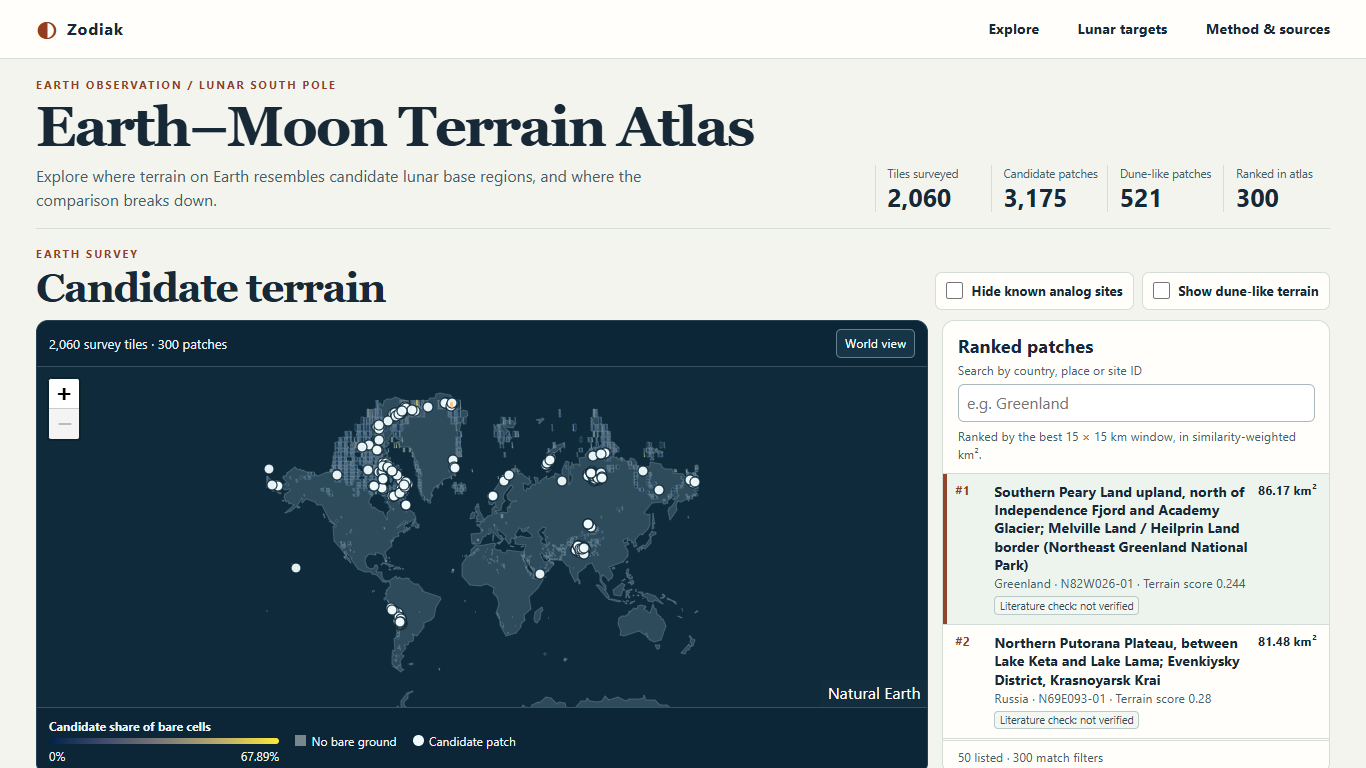
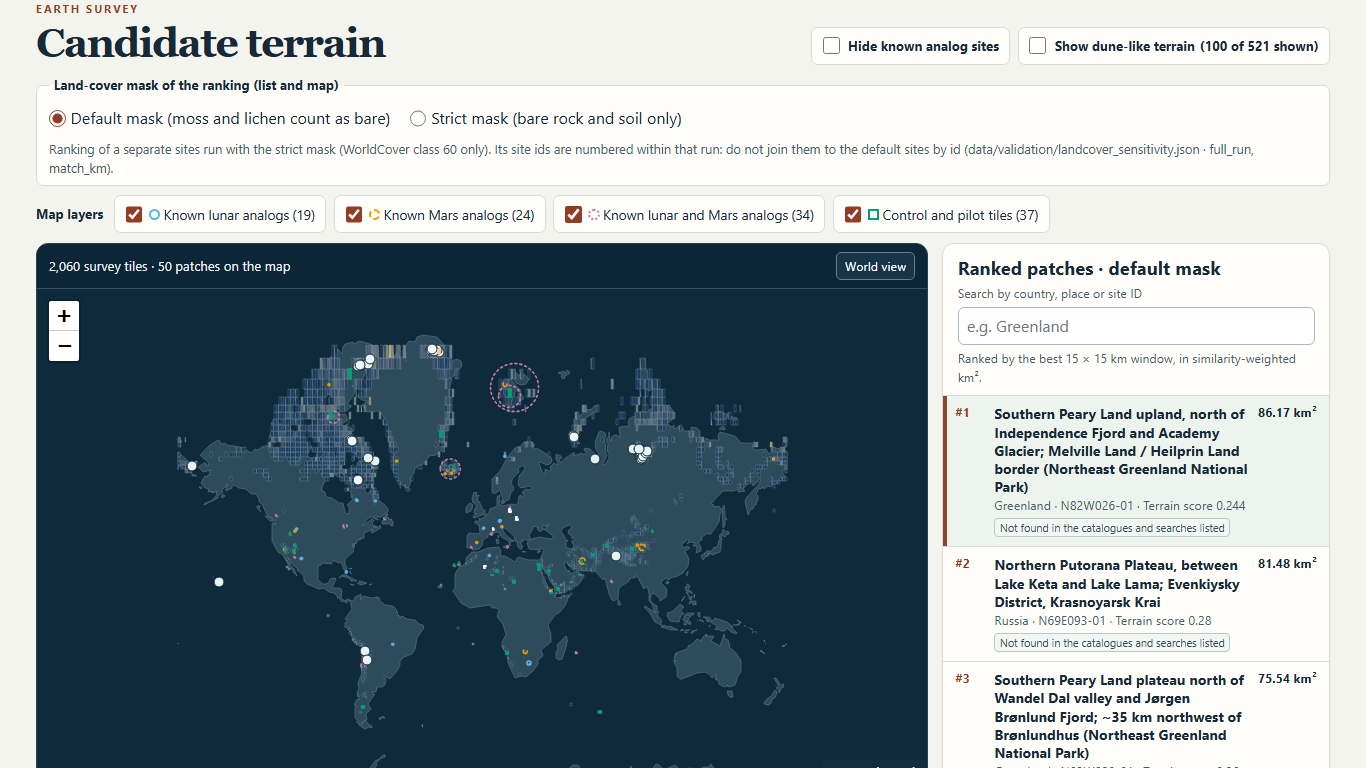
app: layers in the link, page-keys test, screenshots, j36 sources, FRONTEND-SPEC marks (#22)

diff --git a/app/app.js b/app/app.js
@@ -200,11 +200,13 @@ function init(L, data) {
   status.hidden = true;
   const {map, markers, selected} = createMap(L, land, tiles, meta.candidate_share_max);
 
-  // Map layers with toggles (F-15, F-16).
+  // Map layers with toggles (F-15, F-16); `layers=moon,mars,both,controls` in the link turns them on.
+  const requestedLayers = new Set((params.get('layers') || '').split(','));
   const known = knownLayers(L, data.known);
   for (const [tag, layer] of Object.entries(known)) {
     const box = byId(`layer-${tag}`);
     box.disabled = !data.known;
+    box.checked = Boolean(data.known) && requestedLayers.has(tag);
     const sync = () => box.checked ? layer.addTo(map) : layer.remove();
     box.addEventListener('change', sync);
     sync();
@@ -214,7 +216,10 @@ function init(L, data) {
   const controls = controlLayer(L, data.controls);
   const controlBox = byId('layer-controls');
   controlBox.disabled = !data.controls;
-  controlBox.addEventListener('change', () => controlBox.checked ? controls.addTo(map) : controls.remove());
+  const syncControls = () => controlBox.checked ? controls.addTo(map) : controls.remove();
+  controlBox.checked = Boolean(data.controls) && requestedLayers.has('controls');
+  controlBox.addEventListener('change', syncControls);
+  syncControls();
   if (data.controls) byId('count-controls').textContent = ` (${number(data.controls.n, 0)})`;
   if (data.known?.scope_note) byId('known-scope').textContent = data.known.scope_note;
 

diff --git a/tests/test_app_page_keys.py b/tests/test_app_page_keys.py
@@ -1,0 +1,40 @@
+"""The page files read only data files and site keys that exist in the committed export (J36, issue #22).
+
+Written with SI assistance (Claude Code)."""
+
+import json
+from pathlib import Path
+import re
+
+
+ROOT = Path(__file__).resolve().parents[1]
+APP = ROOT / "app"
+PAGE = [APP / name for name in ("app.js", "views.js", "card.js", "strict.js", "sections.js")]
+# Data files the page may read before they exist: app.js reads strict_ranking.json only when meta.json lists it.
+OPTIONAL = {"data/strict_ranking.json"}
+# Keys that only the strict-mask records of app/strict.js carry (built in the browser, not exported).
+STRICT_ONLY = {"ranking_label", "strict"}
+
+
+def page_text():
+    return "\n".join(path.read_text(encoding="utf-8") for path in PAGE if path.exists())
+
+
+def test_every_data_file_the_page_reads_exists():
+    paths = set(re.findall(r"'(data/[A-Za-z0-9_/]+\.json)'", page_text()))
+    paths |= {f"data/{name}.json" for name in re.findall(r"\['([a-z_', ]+)'\]\.map\(\(file\) => json\(`data/", page_text())
+              for name in name.split("', '")}
+    assert "data/sites.json" in paths and "data/novelty.json" in paths
+    missing = sorted(p for p in paths - OPTIONAL if not (APP / p).exists())
+    assert not missing, missing
+
+
+def test_every_site_key_the_card_reads_exists_in_the_export():
+    records = json.loads((APP / "data/sites.json").read_text(encoding="utf-8"))
+    records += json.loads((APP / "data/sites_flagged.json").read_text(encoding="utf-8"))
+    exported = set().union(*(record.keys() for record in records))
+    text = "\n".join((APP / name).read_text(encoding="utf-8") for name in ("views.js", "card.js"))
+    used = set(re.findall(r"\bsite\??\.([a-z_][a-z0-9_]*)", text))
+    missing = sorted(used - exported - STRICT_ONLY - {"site_id"} | ({"site_id"} - exported))
+    assert used, "no site keys found in the page files"
+    assert not missing, missing

diff --git a/docs/FRONTEND-SPEC.md b/docs/FRONTEND-SPEC.md
@@ -363,7 +363,7 @@ Each line: requirement (testable), data it needs, status, KEY if `app/build_data
 ### Shell and global
 
 - **F-01** Every JSON load that fails shows the file name and the error on the page; the page never stays blank. Data: all `app/data/*.json`. EXISTS (`app.js · json()`, `load-status`).
-- **F-02** A null value renders "Not measured"; a site outside a product's sample renders "Not sampled"; no null renders as 0 or empty. Data: `sites.json · power`, `partner`, `image`, every numeric key. PARTIAL (`views.js · number()` returns "Not measured"; "Not sampled" only in the partner block; POWER for ranks 151 to 300 shows "Not measured" instead of "Not sampled").
+- **F-02** A null value renders "Not measured"; a site outside a product's sample renders "Not sampled"; no null renders as 0 or empty. Data: `sites.json · power`, `partner`, `image`, every numeric key. PARTIAL (`views.js · number()` returns "Not measured"; "Not sampled" only in the partner block; POWER for ranks 151 to 300 shows "Not measured" instead of "Not sampled"). **J36 (#22): EXISTS (POWER without a row says "Not sampled", `views.js · analogyBreaks`).**
 - **F-03** The footer names the data agencies and the SI tools. Data: `data/sources.csv` (`status = used`). PARTIAL (static text; it says "Codex" only).
 - **F-04** Header counters show tiles, candidate patches, dune-like patches and ranked patches. Data: `meta.json · counts.tiles`, `sites_total`, `sites_flagged_total`, `sites`. EXISTS.
 - **F-05** Deep link `#view=<id>&site=<id>&target=<id>` opens the screen, the card and the target; an unknown id falls back to rank 1 and `base_regions`. Data: `sites.json`, `sites_flagged.json`, `moon.json · regions`. PARTIAL (`site` and `target` exist; `view` is NEW).
@@ -381,11 +381,11 @@ Each line: requirement (testable), data it needs, status, KEY if `app/build_data
 - **F-11** One rectangle per scanned tile (2,060), filled by `candidate_share` on cividis from 0 to `meta.candidate_share_max`; 75 null tiles grey with "no bare ground". Data: `tiles.json`. EXISTS.
 - **F-12** A tile click opens a tile panel with all 15 columns of `tile_summary.csv` and the plan columns of `tiles_scanned.csv`. Data: `tile_summary.csv`, `tiles_scanned.csv`. NEW, KEY `tiles.json` adds `n_valid`, `n_terrain_pass`, `n_candidate_flagged`, `median_p_bare`, `weighted_area_km2`, `best_window_km2_max`, `lat_c`, `lon_c`, `dem`, `region`, `prio`, `reason`, `status`.
 - **F-13** A marker per listed site; on selection its outline is drawn with every ring as an outer boundary. Data: `sites.json · lat`, `lon`, `polygon`. EXISTS.
-- **F-14** Toggle "Show dune-like relief (terrain rule)" adds the flagged records and says "100 of 521 shown". Data: `sites_flagged.json`, `meta.counts.sites_flagged`, `sites_flagged_total`. PARTIAL (toggle exists; the "100 of 521" text is NEW).
-- **F-15** Known analog layer: 77 circles of `radius_km`, styled and labelled by `analog_for`, toggles per `analog_for`. Data: `data/reference/known_analogs.csv`. NEW, KEY `known_analogs.json`.
-- **F-16** Control and pilot tiles layer with the with-mask and without-mask results. Data: `pilot_tiles.csv`, `effectiveness.json · controls`. NEW, KEY `controls.json` (or `validation.json · controls`).
+- **F-14** Toggle "Show dune-like relief (terrain rule)" adds the flagged records and says "100 of 521 shown". Data: `sites_flagged.json`, `meta.counts.sites_flagged`, `sites_flagged_total`. PARTIAL (toggle exists; the "100 of 521" text is NEW). **J36 (#22): EXISTS (toggle label "(100 of 521 shown)" from `meta.counts`).**
+- **F-15** Known analog layer: 77 circles of `radius_km`, styled and labelled by `analog_for`, toggles per `analog_for`. Data: `data/reference/known_analogs.csv`. NEW, KEY `known_analogs.json`. **J36 (#22): EXISTS (`app.js · knownLayers`, one toggle per tag, Okabe-Ito colour plus dash pattern).**
+- **F-16** Control and pilot tiles layer with the with-mask and without-mask results. Data: `pilot_tiles.csv`, `effectiveness.json · controls`. NEW, KEY `controls.json` (or `validation.json · controls`). **J36 (#22): EXISTS (`app.js · controlLayer`, tooltip with result and `result_key`).**
 - **F-17** Scan coverage layer: 2,101 planned tiles coloured by `region` or `prio`; the 41 planned tiles without a summary row hatched "scanned, no summary row". Data: `tiles_scanned.csv`, `tile_summary.csv`. NEW, KEY `scan_plan.json`.
-- **F-18** Legend with units, scale ends and every active layer. Data: `meta.candidate_share_max`. PARTIAL (tiles and patches only).
+- **F-18** Legend with units, scale ends and every active layer. Data: `meta.candidate_share_max`. PARTIAL (tiles and patches only). **J36 (#22): PARTIAL (layer toggles carry the swatches; the map legend itself lists tiles and patches only).**
 - **F-19** Selecting a site on the map selects it in the list and opens the card, and the reverse. Data: `sites.json`. EXISTS.
 
 ### S03 Ranked list
@@ -402,42 +402,42 @@ Each line: requirement (testable), data it needs, status, KEY if `app/build_data
 
 - **F-27** Head with rank, id, country, place, coordinates and badges. Data: `sites.json · rank`, `site_id`, `country`, `place`, `lat`, `lon`. EXISTS.
 - **F-28** Badges follow W-02, W-04, W-09; `mentioned` reads "region named in an opened source (Mars analog, regional); site not named". Data: `sites.json · is_known`, `dune_like`, `novelty`. EXISTS (since `8edaad7`, `mentioned` reads "Region named as a Mars analog in general terms").
-- **F-29** "Known analog site" badge names the matched known site and its `analog_for` (today a page caption explains that every tag counts, `app/index.html`). Data: `known_analogs.csv` (`name`, `lat`, `lon`, `radius_km`, `analog_for`), site `lat`, `lon`. NEW, KEY `known_match` = {name, analog_for, radius_km, distance_km} computed with the same rule as `pipeline/sites.py` (centroid inside `radius_km`; rows of type `operational` excluded, per its docstring).
+- **F-29** "Known analog site" badge names the matched known site and its `analog_for` (today a page caption explains that every tag counts, `app/index.html`). Data: `known_analogs.csv` (`name`, `lat`, `lon`, `radius_km`, `analog_for`), site `lat`, `lon`. NEW, KEY `known_match` = {name, analog_for, radius_km, distance_km} computed with the same rule as `pipeline/sites.py` (centroid inside `radius_km`; rows of type `operational` excluded, per its docstring). **J36 (#22): EXISTS (`known_match` named in the Earth patch block).**
 - **F-30** Satellite image with credit "NASA Worldview / GIBS", date and layer; "No image stored" otherwise; a scale bar from the image extent. Data: `sites.json · image`, `image_date`, `image_layer`; `images/index.csv · bbox`. PARTIAL (scale bar NEW, KEY `image_bbox`).
-- **F-31** Patch facts: area, cells, elevation, ranking key, weighted area (plain and capped), best window centre, tile. Data: `sites.geojson · area_km2`, `n_cells`, `elev_med`, `best_window_km2`, `weighted_area_km2`, `weighted_area_capped_km2`, `window_lat`, `window_lon`, `tile`. PARTIAL, KEY `weighted_area_km2`, `weighted_area_capped_km2`, `window`.
+- **F-31** Patch facts: area, cells, elevation, ranking key, weighted area (plain and capped), best window centre, tile. Data: `sites.geojson · area_km2`, `n_cells`, `elev_med`, `best_window_km2`, `weighted_area_km2`, `weighted_area_capped_km2`, `window_lat`, `window_lon`, `tile`. PARTIAL, KEY `weighted_area_km2`, `weighted_area_capped_km2`, `window`. **J36 (#22): EXISTS (`card.js · scoreBlock`).**
 - **F-32** Five terrain bars: site value against the lunar median and p10–p90 of the selected target, label and unit from `feature_info`, "Earth outside range" in text. Data: `sites.json · features`, `moon.json · regions[target].features`, `feature_info`. EXISTS.
 - **F-33** Landing and mobility shares, site against lunar median and p10–p90. Data: `sites.json · shares`; `reference.json · regions.*.p10`, `p90` (`f_le5`, `f_le8`, `f_le15`). PARTIAL (lunar median only), KEY `moon.json · regions.*.shares.{median,p10,p90}`.
-- **F-34** Score and its two parts. Data: `sites.geojson · score`, `score_amp`, `score_dep`. PARTIAL (`score` only), KEY `score_amp`, `score_dep`.
+- **F-34** Score and its two parts. Data: `sites.geojson · score`, `score_amp`, `score_dep`. PARTIAL (`score` only), KEY `score_amp`, `score_dep`. **J36 (#22): EXISTS (`card.js · scoreBlock`).**
 - **F-35** Score against each of the 9 targets with the best match marked in text. Data: `sites.json · region_scores`, `best_region`, `moon.json · regions.*.display_name`. EXISTS.
 - **F-36** Changing the target redraws S04.5, S04.6, S04.8 and S04.11 and keeps the ranking order. Data: `moon.json · regions`. EXISTS.
-- **F-37** "Where the analogy breaks" lists every `breaks` sentence and, where present, access and protection; never collapsed. Data: `sites.json · breaks`; `novelty_check.csv · access`, `protection`. PARTIAL, KEY `novelty_record`.
-- **F-38** Surface conditions: POWER (annual mean, monthly range, annual mean in K, precipitation, wind, grid note), JAXA SGLI and NASA MODIS (day mean, night mean, warmest day, coldest night, day minus night, month counts), soil moisture with sample count, permafrost and ground temperature, each with its source link; lunar `temp_avg_k`, `temp_max_k` beside them. Data: `nasa_context.csv`, `partner_context.csv`, `moon.json · headline`, `headline_range`. PARTIAL (no `ts_mean_k`, `precip_mm_per_year`, `ws10m_m_s`, `power_grid_note`, `*_day_max_k`), KEY `power.ts_mean_k`, `power.precip_mm_per_year`, `power.ws10m_m_s`, `power.grid_note`, `partner.<source>.day_max_k`, `partner.group`.
-- **F-39** Literature record for the 44 checked sites with links. Data: `novelty_check.csv` (12 columns). NEW, KEY `novelty_record`.
-- **F-40** "Download site package": one JSON with id, coordinates, polygon, rank, feature values, the lunar region compared, `breaks`, the novelty verdict with its sources, links to the elevation tiles and the image, each with source and licence. Data: `sites.json` record, `moon.json · regions[target]`, `novelty_check.csv`, `sources.json`. NEW (issue #22), KEY `novelty_record`, `sources.json · licence_or_citation` (exists).
-- **F-41** Image review block for ranks 1 to 30 with the SI label. Data: `sites.json · review`. EXISTS.
+- **F-37** "Where the analogy breaks" lists every `breaks` sentence and, where present, access and protection; never collapsed. Data: `sites.json · breaks`; `novelty_check.csv · access`, `protection`. PARTIAL, KEY `novelty_record`. **J36 (#22): EXISTS (access and protection appended to the list; "Not recorded" without a literature row).**
+- **F-38** Surface conditions: POWER (annual mean, monthly range, annual mean in K, precipitation, wind, grid note), JAXA SGLI and NASA MODIS (day mean, night mean, warmest day, coldest night, day minus night, month counts), soil moisture with sample count, permafrost and ground temperature, each with its source link; lunar `temp_avg_k`, `temp_max_k` beside them. Data: `nasa_context.csv`, `partner_context.csv`, `moon.json · headline`, `headline_range`. PARTIAL (no `ts_mean_k`, `precip_mm_per_year`, `ws10m_m_s`, `power_grid_note`, `*_day_max_k`), KEY `power.ts_mean_k`, `power.precip_mm_per_year`, `power.ws10m_m_s`, `power.grid_note`, `partner.<source>.day_max_k`, `partner.group`. **J36 (#22): PARTIAL (POWER K, precipitation, wind and grid note added; `*_day_max_k` still not shown).**
+- **F-39** Literature record for the 44 checked sites with links. Data: `novelty_check.csv` (12 columns). NEW, KEY `novelty_record`. **J36 (#22): EXISTS (`card.js · literatureBlock`, wording from `novelty.json · wording`).**
+- **F-40** "Download site package": one JSON with id, coordinates, polygon, rank, feature values, the lunar region compared, `breaks`, the novelty verdict with its sources, links to the elevation tiles and the image, each with source and licence. Data: `sites.json` record, `moon.json · regions[target]`, `novelty_check.csv`, `sources.json`. NEW (issue #22), KEY `novelty_record`, `sources.json · licence_or_citation` (exists). **J36 (#22): EXISTS (`card.js · sitePackage`, built in the browser; Copernicus tile URL from the rule in `pipeline/io_earth.py`).**
+- **F-41** Image review block for ranks 1 to 30 with the SI label. Data: `sites.json · review`. EXISTS. **J36 (#22): EXISTS (`card.js · reviewBlock`).**
 - **F-42** Nearest known analog with distance and `analog_for`, and the nearest lunar analog when the nearest one is Mars-only, linking to S12. Data: `sites.json · nearest_known`, `nearest_known_km`, `nearest_known_for`, `nearest_lunar_known`, `nearest_lunar_known_km`; `known_analogs.csv · type`, `source_url`. PARTIAL (tag and lunar analog EXIST since `8edaad7`; link to S12 NEW), KEY `nearest_known_type`, `nearest_known_url`.
-- **F-43** Dune-like explanation for flagged sites: share of flagged cells and the reason sentence. Data: `sites.geojson · artefact_share`, `artefact_reason`. NEW, KEY `artefact_share`, `artefact_reason`.
-- **F-44** Radar block for the 37 sites of the RADARSAT-1 index, with the status sentence for the 28 without a window. Data: `radarsat1_index.csv`, `data/sites/radarsat1/*.png`. NEW, KEY `radar` and `img/` copies.
-- **F-45** Rank certainty block when `data/sites/rank_uncertainty.csv` exists; hidden otherwise. Data: issue #18 outputs. NEW (the file and the export key `rank_uncertainty` exist since #18 and #25).
-- **F-46** Moss-and-lichen check for ranks 1 to 100 ("keeps a 4-cell core without moss and lichen" or not, with `bare_strict_med`); "not checked" above rank 100; Sentinel-1 line only when its file exists. Data: `data/validation/landcover_sensitivity/sites_top100.csv`; issue #20 outputs. NEW, KEY `landcover_strict` per site (Sentinel-1 part blocked by #20).
+- **F-43** Dune-like explanation for flagged sites: share of flagged cells and the reason sentence. Data: `sites.geojson · artefact_share`, `artefact_reason`. NEW, KEY `artefact_share`, `artefact_reason`. **J36 (#22): EXISTS (`card.js · scoreBlock` for flagged sites).**
+- **F-44** Radar block for the 37 sites of the RADARSAT-1 index, with the status sentence for the 28 without a window. Data: `radarsat1_index.csv`, `data/sites/radarsat1/*.png`. NEW, KEY `radar` and `img/` copies. **J36 (#22): EXISTS (`card.js · radarBlock`; status sentence from `radar.json · status_meaning`).**
+- **F-45** Rank certainty block when `data/sites/rank_uncertainty.csv` exists; hidden otherwise. Data: issue #18 outputs. NEW (the file and the export key `rank_uncertainty` exist since #18 and #25). **J36 (#22): EXISTS (`card.js · certaintyBlock`, hidden without `rank_uncertainty`).**
+- **F-46** Moss-and-lichen check for ranks 1 to 100 ("keeps a 4-cell core without moss and lichen" or not, with `bare_strict_med`); "not checked" above rank 100; Sentinel-1 line only when its file exists. Data: `data/validation/landcover_sensitivity/sites_top100.csv`; issue #20 outputs. NEW, KEY `landcover_strict` per site (Sentinel-1 part blocked by #20). **J36 (#22): EXISTS (`card.js · mossBlock`; strict-ranking match by `landcover_sensitivity.json · full_run.match_km`; Sentinel-1 part still blocked).**
 - **F-47** Every number in the card shows its file and key on hover. Data: as above. PARTIAL (validation items only).
 
 ### S05 Side by side
 
-- **F-48** Earth image (or outline) and lunar hillshade of the selected region at the same ground scale, each with a scale bar. Data: `images/index.csv · bbox`, `reference.json · regions.*.window_m`, `data/moon/hillshade/*.png`. NEW (issue #22), KEY `image_bbox`, `moon.json · regions.*.window_m`.
-- **F-49** For the pooled target, the panel uses the site's `best_region` and says so. Data: `sites.json · best_region`. NEW.
-- **F-50** The view is labelled "terrain shape at 200 m to 1.6 km" and repeats the shape bars and the breaks list. Data: as F-32, F-37. NEW.
+- **F-48** Earth image (or outline) and lunar hillshade of the selected region at the same ground scale, each with a scale bar. Data: `images/index.csv · bbox`, `reference.json · regions.*.window_m`, `data/moon/hillshade/*.png`. NEW (issue #22), KEY `image_bbox`, `moon.json · regions.*.window_m`. **J36 (#22): EXISTS (`card.js · sideBySide`; outline only when no image).**
+- **F-49** For the pooled target, the panel uses the site's `best_region` and says so. Data: `sites.json · best_region`. NEW. **J36 (#22): EXISTS.**
+- **F-50** The view is labelled "terrain shape at 200 m to 1.6 km" and repeats the shape bars and the breaks list. Data: as F-32, F-37. NEW. **J36 (#22): PARTIAL (label and shape values in the view; the breaks list is the next block, not repeated).**
 
 ### S06 Lunar targets
 
 - **F-51** Selector with the 9 targets, default `base_regions`. Data: `moon.json · regions`. EXISTS.
 - **F-52** Panel with coordinates, window, hillshade and LROC quicklook with credits, and the 10 headline values; for `base_regions` the min to max and the 7 members. Data: `moon.json · regions.*`, `headline_info`. EXISTS.
 - **F-53** South-pole map with the 8 footprints; click selects the target. Data: `data/moon/regions.geojson`. NEW, KEY `moon.json · footprints`.
-- **F-54** Coordinate provenance per region. Data: `reference.json · regions.*.coord_source`, `coord_status`, `notes`. NEW, KEY.
-- **F-55** Full terrain statistics (14 features with median, p10, p90, and `mean_dep_frac`). Data: `reference.json · regions.*.medians`, `p10`, `p90`, `mean_dep_frac`. PARTIAL (5 features), KEY.
-- **F-56** Full instrument table per region with units, citation, caveats. Data: `data/moon/instruments/*_regions.json`, `registry.json`. NEW, KEY `moon.json · regions.*.instruments`, `instrument_info` (as in the prototype `SCHEMA.md`).
-- **F-57** Gallery of the 80 per-region instrument maps with colour bars and credits. Data: `data/moon/instruments/{diviner,lamp,lola,lroc,minirf}/*.png`, `registry.json · products[].vmin`, `vmax`, `cmap`. NEW, KEY `moon.json · regions.*.maps` and copies in `img/` (size: the 80 PNGs must keep `app/data/` under 25 MB, `build_data.py · MAX_BYTES`; the export is 23.8 MB at `be02969`, so little room is left).
-- **F-58** Diviner detail and figure. Data: `diviner_regions.json`, `diviner_pcp_regions.json`, `docs/figures/diviner_regions_temperature.png`. NEW.
+- **F-54** Coordinate provenance per region. Data: `reference.json · regions.*.coord_source`, `coord_status`, `notes`. NEW, KEY. **J36 (#22): EXISTS (`sections.js · showMoon`).**
+- **F-55** Full terrain statistics (14 features with median, p10, p90, and `mean_dep_frac`). Data: `reference.json · regions.*.medians`, `p10`, `p90`, `mean_dep_frac`. PARTIAL (5 features), KEY. **J36 (#22): EXISTS (`sections.js · featureTable`).**
+- **F-56** Full instrument table per region with units, citation, caveats. Data: `data/moon/instruments/*_regions.json`, `registry.json`. NEW, KEY `moon.json · regions.*.instruments`, `instrument_info` (as in the prototype `SCHEMA.md`). **J36 (#22): EXISTS (`sections.js · instrumentTable`).**
+- **F-57** Gallery of the 80 per-region instrument maps with colour bars and credits. Data: `data/moon/instruments/{diviner,lamp,lola,lroc,minirf}/*.png`, `registry.json · products[].vmin`, `vmax`, `cmap`. NEW, KEY `moon.json · regions.*.maps` and copies in `img/` (size: the 80 PNGs must keep `app/data/` under 25 MB, `build_data.py · MAX_BYTES`; the export is 23.8 MB at `be02969`, so little room is left). **J36 (#22): EXISTS (`sections.js · mapGallery`, colour bar from `cmap`, `vmin`, `vmax`).**
+- **F-58** Diviner detail and figure. Data: `diviner_regions.json`, `diviner_pcp_regions.json`, `docs/figures/diviner_regions_temperature.png`. NEW. **J36 (#22): PARTIAL (figure and the Diviner rows of the instrument table; no separate detail block).**
 
 ### S07 Target comparison
 
@@ -447,11 +447,11 @@ Each line: requirement (testable), data it needs, status, KEY if `app/build_data
 ### S08 Method
 
 - **F-61** The ten steps with linked sources. Data: `method.json`. EXISTS.
-- **F-62** The sections "Two decisions", "What the validation says" and "Limits". Data: `docs/METHOD.md`. NEW, KEY `method.json · sections` (prototype shape).
+- **F-62** The sections "Two decisions", "What the validation says" and "Limits". Data: `docs/METHOD.md`. NEW, KEY `method.json · sections` (prototype shape). **J36 (#22): EXISTS (`sections.js · showEvidence`, from `method_sections.json`).**
 
 ### S09 Validation
 
-- **F-63** One block per validation file (V1 to V13) with headline numbers, figure, holds / does not hold, link to the JSON. Data: the 9 files in `data/validation/`, the figures of section 5.3. PARTIAL (`validation.json` has 70 items from 5 files: `t1_reproduce_nasa.json`, `pds_lola.json`, `effectiveness.json`, `enrichment.json`, `nasadem_vs_copdem.json`; no figures), KEY items for `icesat2.json`, `aw3d30_comparison.json`, `crater_profiles.json`, `partner_checks.json`, `landcover_sensitivity.json`, `effectiveness.json · ablation`, `scan`, `stability.legacy_grid`, `stability.dem_comparison`; figure copies in `img/`.
+- **F-63** One block per validation file (V1 to V13) with headline numbers, figure, holds / does not hold, link to the JSON. Data: the 9 files in `data/validation/`, the figures of section 5.3. PARTIAL (`validation.json` has 70 items from 5 files: `t1_reproduce_nasa.json`, `pds_lola.json`, `effectiveness.json`, `enrichment.json`, `nasadem_vs_copdem.json`; no figures), KEY items for `icesat2.json`, `aw3d30_comparison.json`, `crater_profiles.json`, `partner_checks.json`, `landcover_sensitivity.json`, `effectiveness.json · ablation`, `scan`, `stability.legacy_grid`, `stability.dem_comparison`; figure copies in `img/`. **J36 (#22): PARTIAL (every group with its figures and a link to its JSON; "what holds / does not hold" text not shown).**
 - **F-64** The five plain sentences above the blocks, numbers read from `validation.json`, none typed. Data: `validation.json · items`, `summary`. EXISTS.
 - **F-65** Hover on any number shows `file · key`. Data: `validation.json · items[].file`, `key`. EXISTS.
 
@@ -472,7 +472,7 @@ Each line: requirement (testable), data it needs, status, KEY if `app/build_data
 
 ### S18 and S19
 
-- **F-75** Sources grouped by agency with name, link(s), licence or citation, status, use; filter by status and by challenge link number; tools and libraries. Data: `sources.json`; `sources.csv · challenge_link_no`, `needs_login`. PARTIAL (no filter, no challenge number), KEY `challenge_link_no`, `needs_login`, `urls`.
+- **F-75** Sources grouped by agency with name, link(s), licence or citation, status, use; filter by status and by challenge link number; tools and libraries. Data: `sources.json`; `sources.csv · challenge_link_no`, `needs_login`. PARTIAL (no filter, no challenge number), KEY `challenge_link_no`, `needs_login`, `urls`. **J36 (#22): EXISTS (table with challenge link number, status, licence, use; filters by status and challenge link).**
 - **F-76** About page shows the data commit, the run log, the data catalogue and the rebuild commands. Data: `meta.json · commit`, `data/run_log.csv`, `data/catalog.csv`. NEW, KEY `run_log.json`, `catalog.json`.
 
 ---

diff --git a/docs/sources/j36.md b/docs/sources/j36.md
@@ -1,0 +1,38 @@
+# J36 (issue #22): the page shows the data it already has
+
+Written with SI assistance (Claude Code). Page files: `app/app.js`, `app/views.js`, `app/index.html`, `app/style.css`, new modules `app/card.js` (site card blocks, side by side, site package), `app/strict.js` (strict-mask ranking), `app/sections.js` (lunar panel, method, validation, sources). Test: `tests/test_app_page_keys.py`. Screenshots: `docs/figures/app_side_by_side.png`, `app_map.png`, `app_site_card.png`, `app_moon_target.png` (headless Microsoft Edge, 1366 px wide, cropped).
+
+## What the page reads
+
+Every number comes from `app/data/*.json` (contract `app/data/SCHEMA.md`); none is typed into the page.
+
+| Block | Data |
+|---|---|
+| Literature record | `sites.json · novelty_record`, `novelty.json · wording`, `values` (`docs/NOVELTY.md` section 6) |
+| Image review | `sites.json · review` (judged by an SI model) |
+| Moss and lichen check | `sites.json · landcover_strict`; `validation/landcover_sensitivity.json · top`, `min_cells`, `bare_min`, `full_run.match_km` |
+| Rank certainty | `sites.json · rank_uncertainty`; `validation/rank_uncertainty.json · configuration.n_bootstrap` |
+| Radar look | `sites.json · radar`; `radar.json · caveat`, `status_meaning` |
+| Score parts and areas | `sites.json · score`, `score_amp`, `score_dep`, `weighted_area_km2`, `weighted_area_capped_km2`, `window`, `artefact_share`, `artefact_reason` |
+| Side by side | `sites.json · image_bbox`, `polygon`, `image`; `moon.json · regions.*.window_km`, `hillshade`; `best_region` for the pooled target |
+| Where the analogy breaks | `sites.json · breaks`, `novelty_record.access`, `protection`, `power.*` |
+| Site package | the site record, `moon.json · regions[target or best_region]`, `novelty.json`, `sources.json` rows, `meta.json · commit` |
+| Map layers | `known_analogs.json · rows`, `counts`; `controls.json · tiles` |
+| Strict-mask ranking | `validation/landcover_sensitivity/ranking_bare_strict.json` (or `strict_ranking.json` once `meta.json · files` lists it), `top30_strict_review.json`, `novelty_check_strict.json` |
+| Lunar target | `moon.json · regions.*.instruments`, `maps`, `features`, `shares_range`, `coord_source`, `coord_status`, `notes`; `instrument_info` |
+| Validation | `validation.json · groups`, `items`, `files`, `figures` |
+| Method | `method.json`, `method_sections.json` |
+| Sources | `sources.json` (`challenge_link_no`, `status`, `licence_or_citation`, `needs_login`) |
+
+## Rules and borrowed definitions
+
+- Ground scale of the side-by-side view: degrees to km on a sphere of radius 6371.0088 km (the radius `app/build_data.py` uses for `known_match.distance_km`, SCHEMA.md). The GIBS image (600 x 600 px over `image_bbox`, equal steps in degrees) is drawn at its ground proportions; the lunar hillshade covers the whole `window_m` (`pipeline/moon_reference.py · hillshade_png`, "plain grey hillshade of each window"). Both panels share one frame size and one scale bar length.
+- Copernicus DEM tile URL in the site package: the rule `COP_URL` in `pipeline/io_earth.py` (`https://copernicus-dem-30m.s3.amazonaws.com/{stem}/{stem}.tif`); checked with an HTTP HEAD for `N82W026` (200 OK, 15 Nov 2026). Registry: https://registry.opendata.aws/copernicus-dem/
+- Strict-mask match: centroid distance at or below `landcover_sensitivity.json · full_run.match_km`; the strict ranking is not joined by site id (its `note`).
+- Colours: Okabe-Ito categorical colours (Okabe and Ito, "Color Universal Design", https://jfly.uni-koeln.de/color/) for the known-analog tags and control tiles, each with its own dash pattern; colour bars of the lunar maps use the matplotlib colour maps named in `instrument_info.*.cmap` (https://matplotlib.org/stable/users/explain/colors/colormaps.html). Neither colour page was opened in this job: the two URLs are UNVERIFIED; the hex stops are the commonly published values.
+- Map library: Leaflet 1.9.4 (BSD-2-Clause), unchanged: https://leafletjs.com/
+
+## Not done
+
+- `*_day_max_k` of the partner products (F-38), the "what holds / does not hold" texts per validation block (F-63), the tile panel (F-12), list filters, sort and paging (F-23 to F-26).
+- Strict-mask records have no outline and no image in the export, so the side-by-side view, surface conditions and radar look are shown for the default ranking only.
